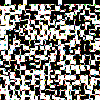
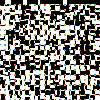
Updated canada.pymy1.png .

diff --git a/canada.py b/canada.py
@@ -47,15 +47,12 @@ moverPieza(outp,17,4,0,5)
 moverPieza(outp,17,12,0,3)
 moverPieza(outp,18,10,0,13)
 moverPieza(outp,19,17,0,19)
-'''for a in range(1):
-    for i in range(1):
+for a in range(1):
+    for i in range(1,20):
         for j in range(1,20):
             for o in range(i,20):
                 for k in range(j,20):
-                    if(i==0):
-                        if(bon(getColor(outp,1,o,k)) and bon(getColor(outp,2,o,k)) and np.array_equal(getColor(outp,4,o,k),getColor(outp,3,i,j-1))):
-                            moverPieza(outp,o,k,i,j)
-                    elif(j==0):
+                    if(j==0):
                         if(bon(getColor(outp,4,o,k)) and bon(getColor(outp,1,o,k)) and np.array_equal(getColor(outp,2,o,k),getColor(outp,3,i-1,j))):
                             moverPieza(outp,o,k,i,j)
                     else:
@@ -67,6 +64,6 @@ moverPieza(outp,19,17,0,19)
 
 
 
-'''
+
 img = Image.fromarray(outp, 'RGB')
 img.save('my1.png')
